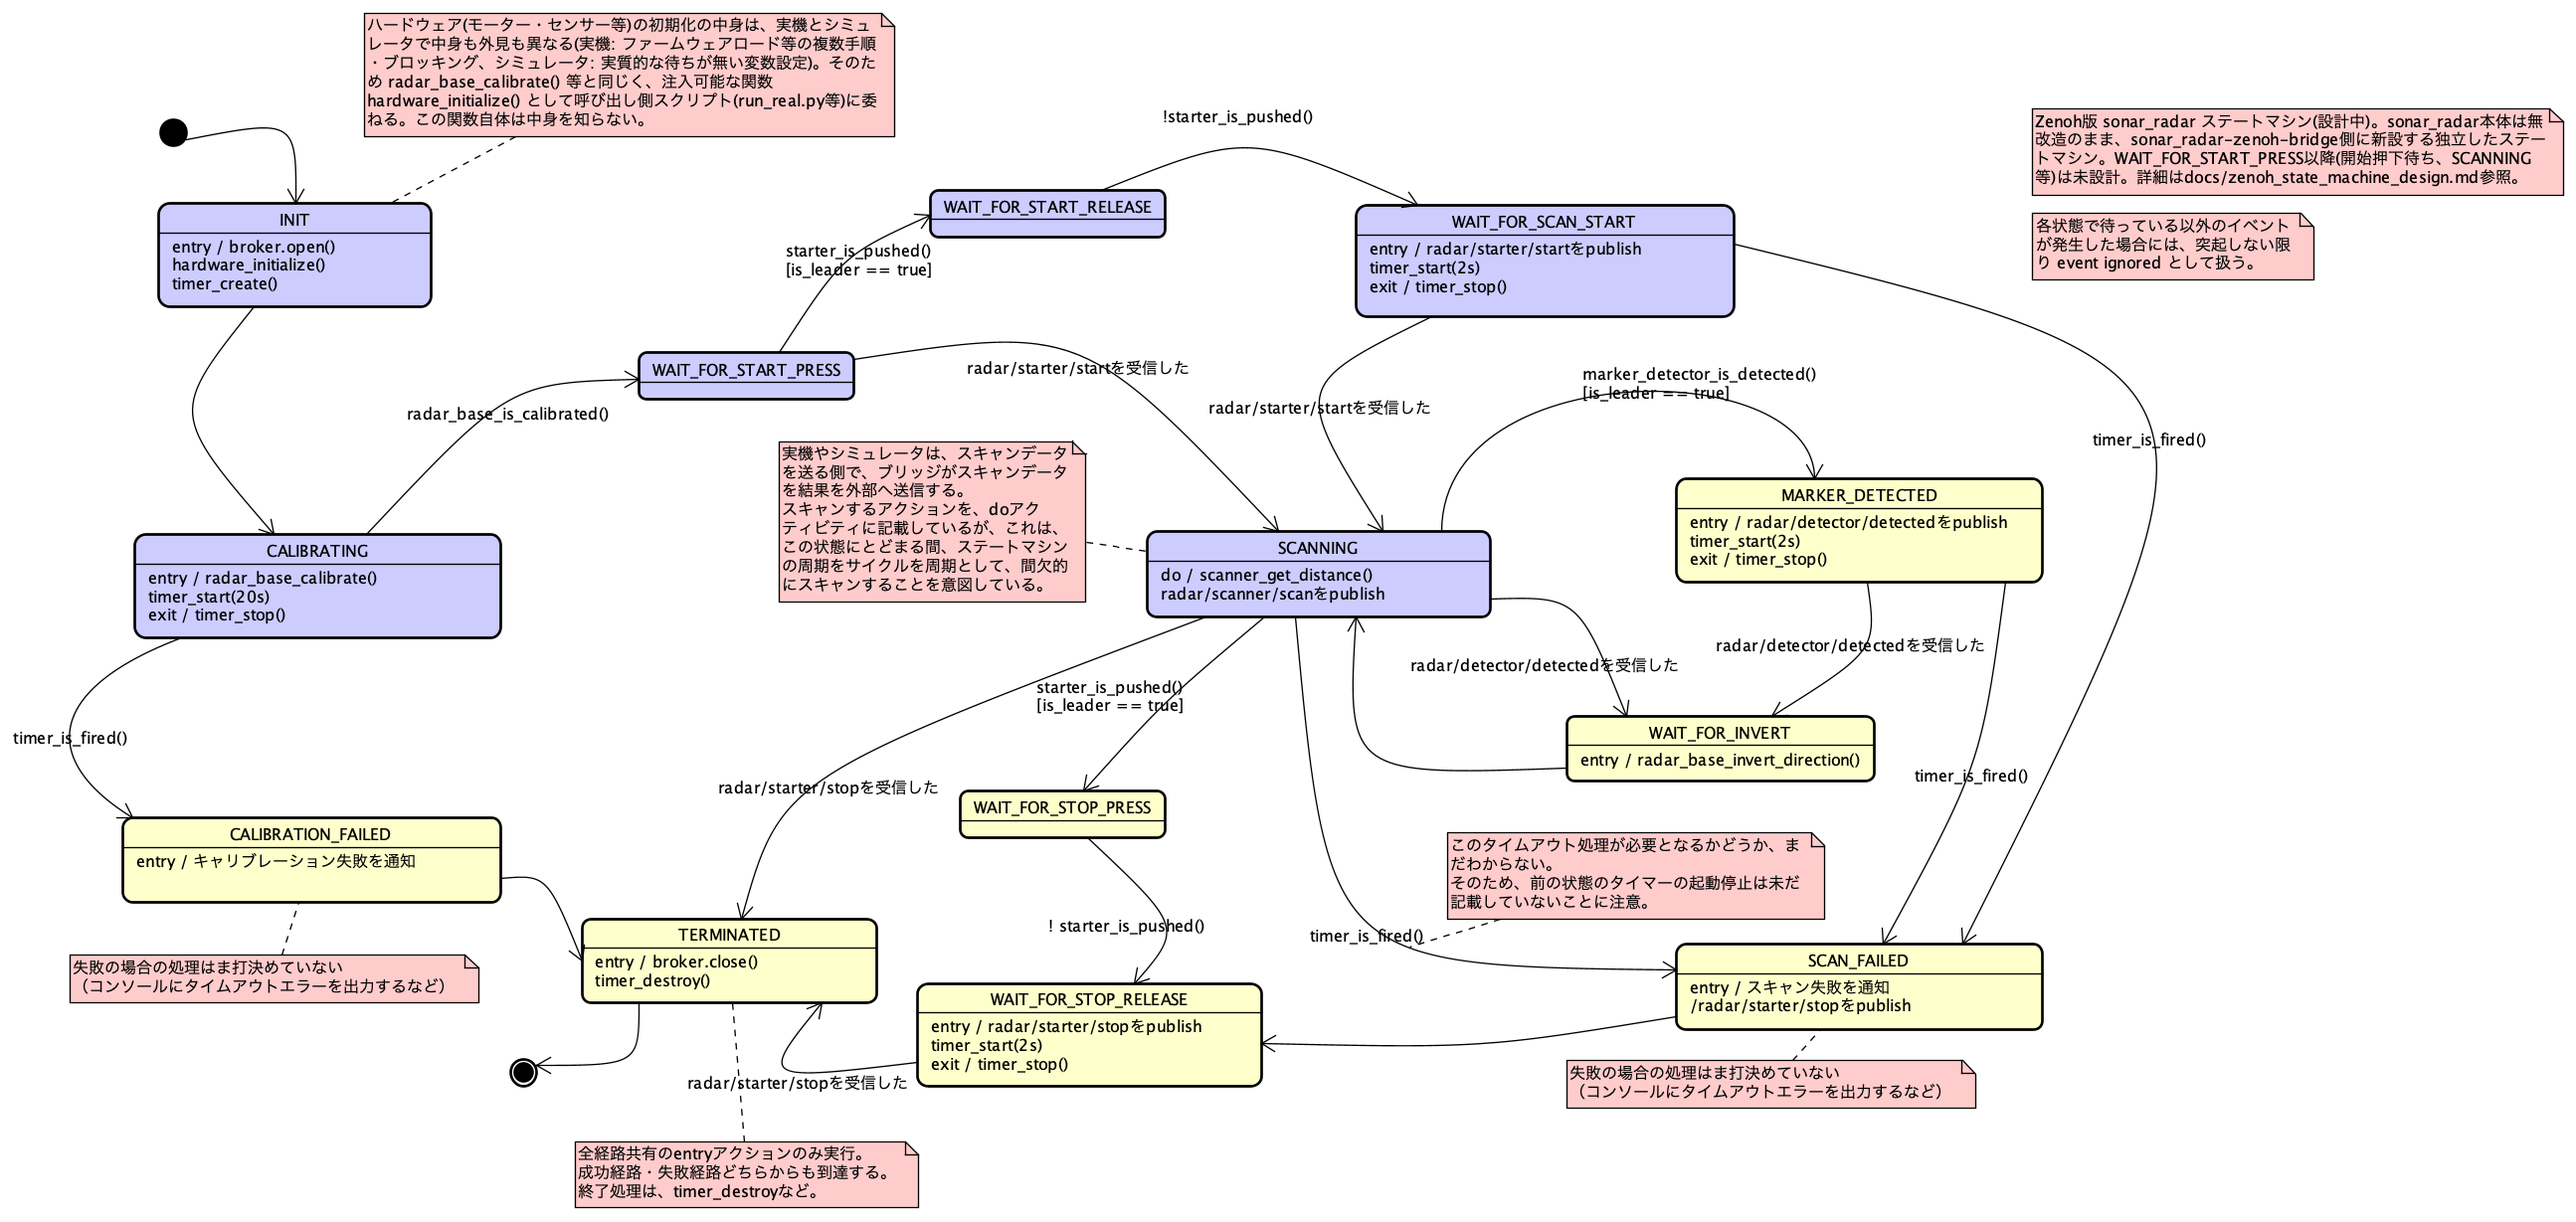
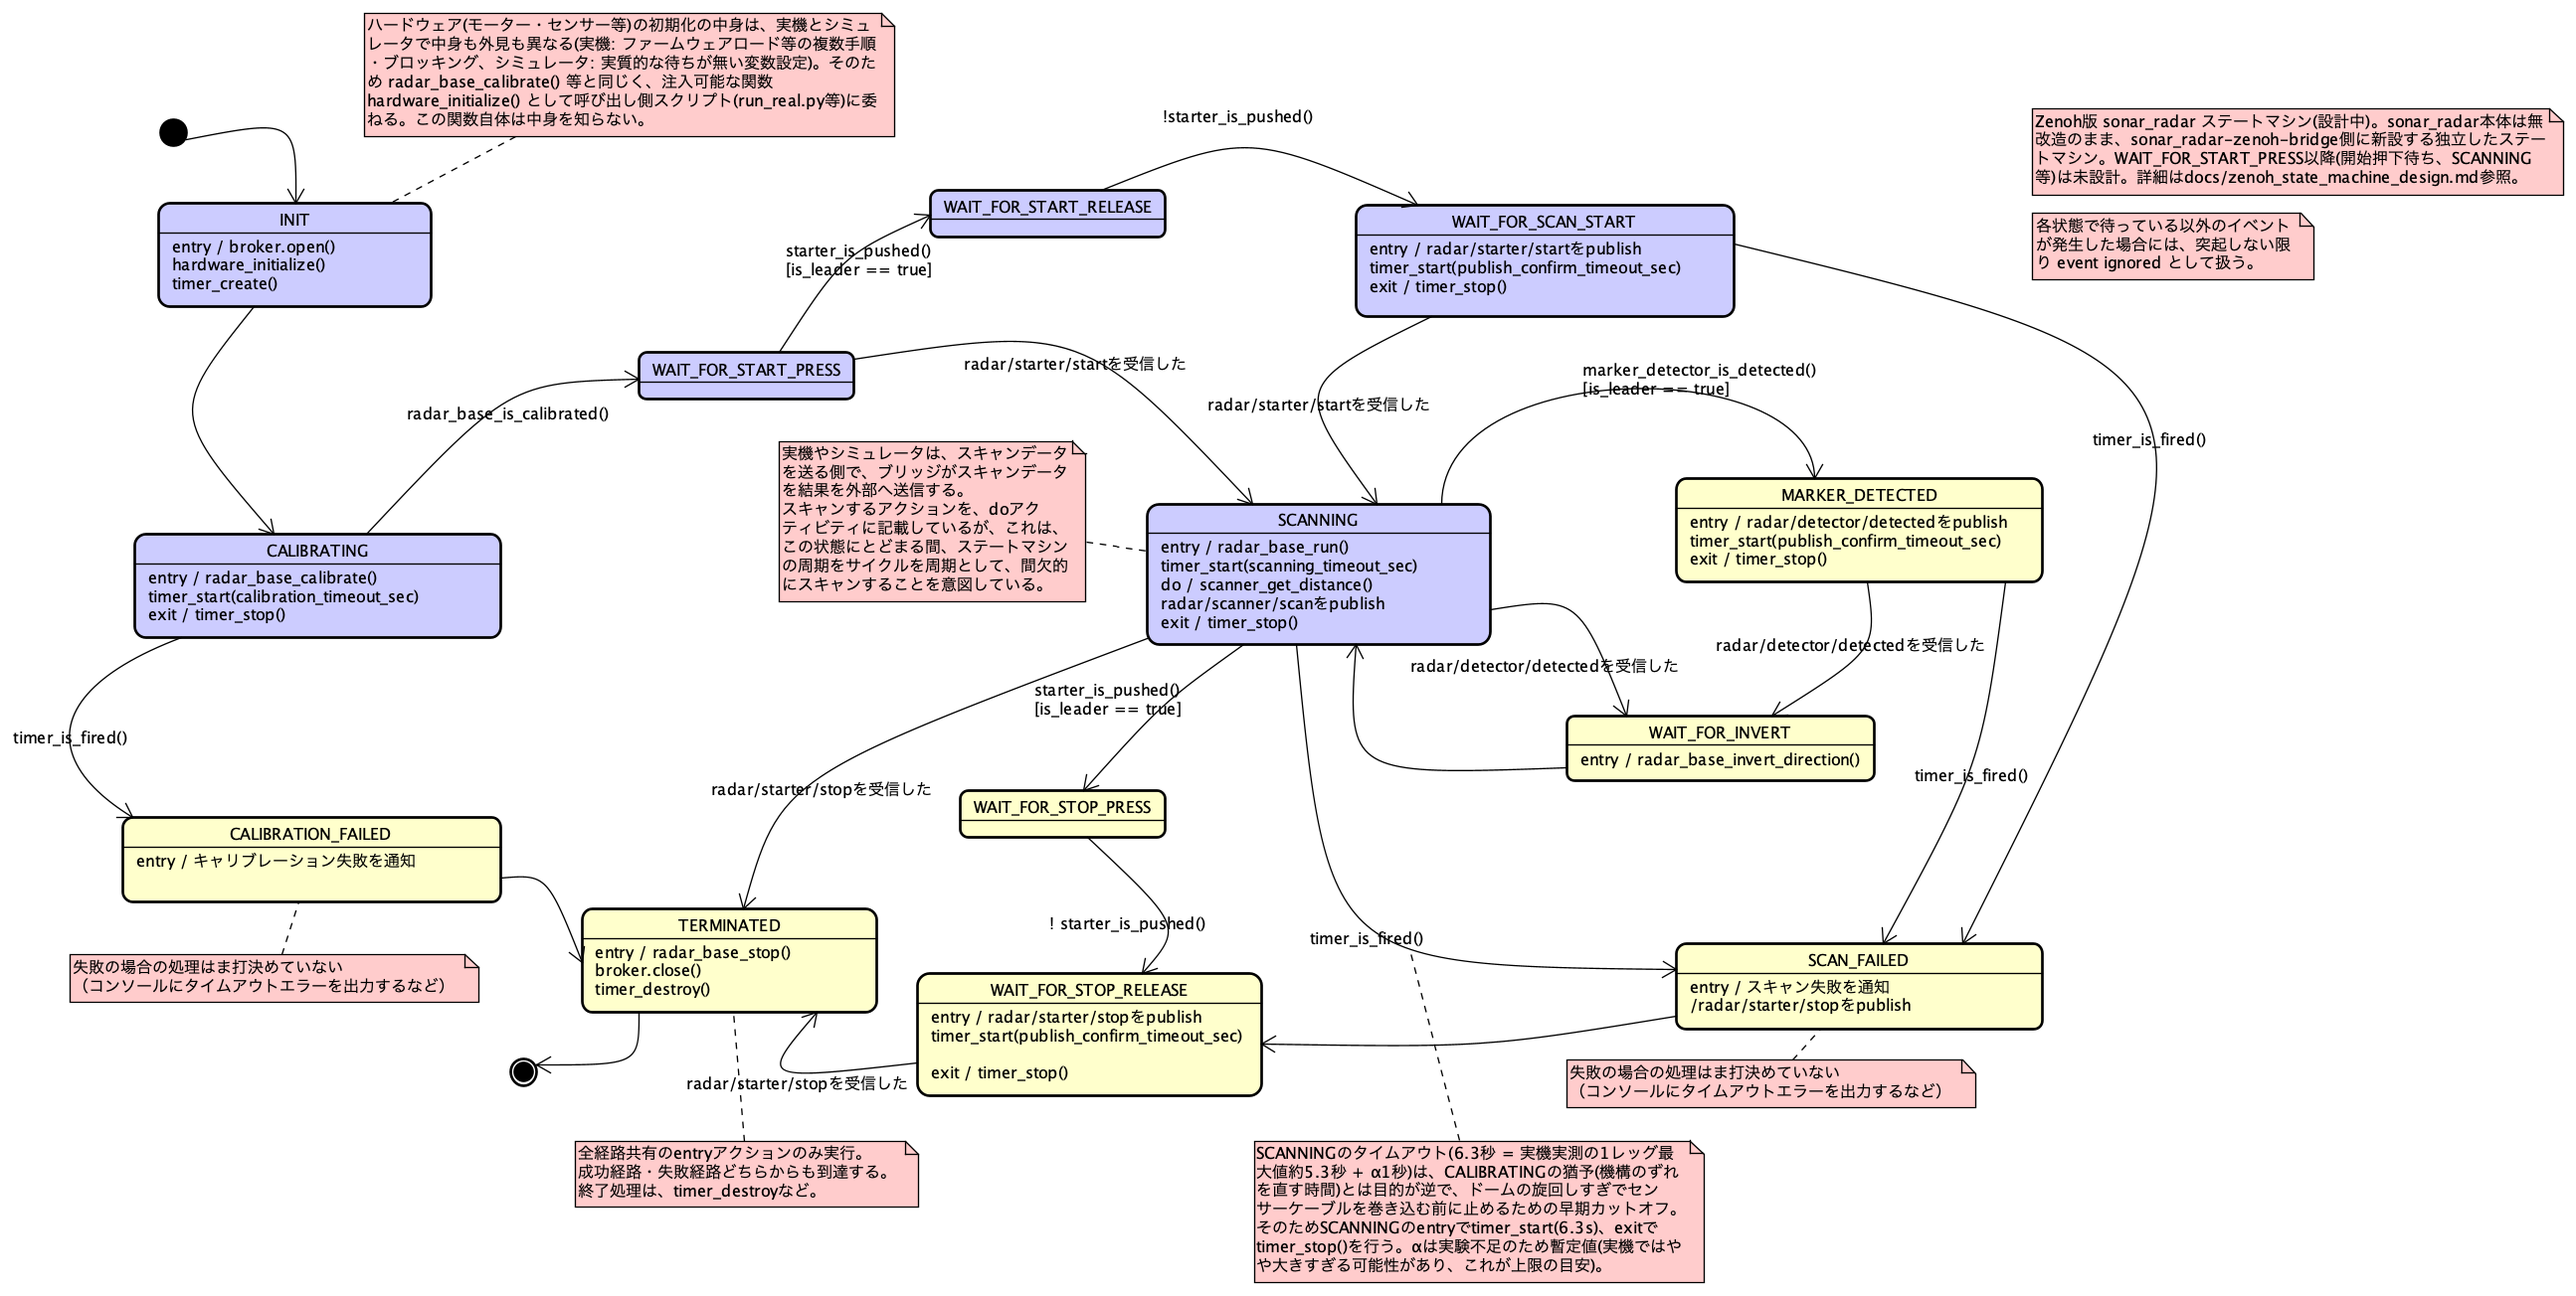
docs: READMEをマイルストーン5完了に同期、development_logの重複を整理、図を再エクスポート
README.mdの残作業チェックリストを更新: MARKER_DETECTED以降実装(#11)、
ハードウェア抽象層統一(#12)、radar_base継続旋回+marker_detector+
タイムアウト分離(#13)を完了項目として追記し、次の課題(raspi5ブリッジ、
pdu_ros_bridge)を#14/#15に整理。ステータス欄も現状に更新。

development_log.mdに同じ内容の「マイルストーン5」を重複追記していたため
削除し、既存のマイルストーン4(2つあった重複番号)をマイルストーン5に
振り直して整理した(コミット内容の実体はea56909と同じ)。

docs/export_diagrams.bash経由でdocs/diagrams/配下の図(クラス図・
ステートマシン図)を、タイムアウト属性追加後の最新の.astaから再エクスポート。

diff --git a/README.md b/README.md
@@ -283,7 +283,7 @@ python3 -c "from hakoniwa_pdu_endpoint import c_endpoint; print('import ok')"
 
 **設計継続（優先）**
 
-1. [`docs/zenoh_state_machine_design.md`](docs/zenoh_state_machine_design.md) の状態機械設計を継続（`WAIT_FOR_START_PRESS`/`WAIT_FOR_START_RELEASE`/`SCANNING`（到達まで）は実装・確認済み。`detected`の対称設計、`SCAN_FAILED`等、`MARKER_DETECTED`以降が未確定のまま残っている）
+1. [`docs/zenoh_state_machine_design.md`](docs/zenoh_state_machine_design.md) の状態機械設計を継続（`WAIT_FOR_START_PRESS`〜`SCAN_FAILED`まで含め全状態を実装・確認済み。`pdu_ros_bridge::sonar_radar_ros_bridge`、`CALIBRATION_FAILED`/`SCAN_FAILED`の失敗時処理の具体化などが未確定のまま残っている）
 
 **実装作業（状態機械図を1状態ずつ実装しながら進める方式、進行中。進め方と教訓は[`docs/development_log.md`](docs/development_log.md)を参照）**
 
@@ -296,10 +296,12 @@ python3 -c "from hakoniwa_pdu_endpoint import c_endpoint; print('import ok')"
 8. [x] `bridge/hako_radar_base.py`(`HakoRadarBase`)を新設し、MuJoCo(Hakoniwa plant、`sonar_radar_hako.py`を無改造で使用)経由でradar_baseを駆動できるようにした。`real_radar_base.py`と同じく、`motor_run_to_position()`がブロッキング実装のため、`motor_pwm()`/`motor_get_position()`による非ブロッキングのtickベース駆動にしている。
 9. [x] `run_calibration_smoke_test.py`/`run_start_smoke_test.py`とそれぞれのhako版(計4本)を`run_real.py`/`run_hako.py`(共通部分は`app_runner.py`)に統合。個別に育って機能追加漏れ(`--real-radar-base`)が起きた反省から、SonarRadarAppの構築・tickループ・state reportingを1箇所に集約した。あわせて`bridge/hako_starter.py`(`HakoStarter`)を新設し、`real_radar_base.py`/`real_starter.py`がBuild HATへの接続を共有する形に修正(`real_hat.py`)。実機(leader)とMac(follower、シミュレータ)の2台構成で、followerがstarter操作なしで`start`受信のみ`SCANNING`へ直接遷移することを確認済み。詳細は[`docs/development_log.md`](docs/development_log.md)を参照。
 10. [x] マシン間のキャリブレーション協調（`WAIT_FOR_CALIBRATE`/`WAIT_FOR_CALIBRATED`/`check_calibration_participants()`/`calibrate`・`calibrated`PDU）を廃止し、`INIT → CALIBRATING`（ローカルのみ、マシン間通信なし）→自動的に`WAIT_FOR_START_PRESS`という設計に再転回。`CALIBRATION_FAILED`はローカルなハードウェア障害検出用として存続(タイムアウト20秒)、`timer_stop()`は`CALIBRATING`のexitに一本化。状態機械図・クラス図・`docs/zenoh_state_machine_design.md`・`bridge/`のコード・`pdu/pdutypes.json`・zenoh設定を一通り追従させ、実機単体(動作シナリオ1)・実機+Mac(MuJoCoシム)の2台構成の両方で`CALIBRATING`から`SCANNING`までエラーなく到達することを実地確認済み。経緯は[`docs/zenoh_state_machine_design.md`](docs/zenoh_state_machine_design.md)「背景: キャリブレーション協調の廃止」、詳細は[`docs/development_log.md`](docs/development_log.md)を参照。
-11. 次のマイルストーン: `MARKER_DETECTED` 以降（`detected`対称処理、`WAIT_FOR_INVERT`、stop対称処理、`SCAN_FAILED`）を同様に1状態ずつ実装し、都度2台構成でも確認する
-12. `config/raspi5/`（`hakoniwa-pdu-ros` bridge用設定）の作成、ROSトピックとしてのモニタリング確認(ブリッジ役が実際に必要になった段階で着手)
-13. 実機/シムのハードウェア抽象層の統一。`libspikehat`/`libspikehat_sim`が`sonar_radar`本体向けに提供している「実機・シムで差し替え可能な共通インターフェース」と同様のものを、ブリッジ側の`hardware_initialize`/`radar_base_calibrate`/`radar_base_is_calibrated`/`starter_is_pushed`にも導入する(現状は`run_real.py`/`run_hako.py`でそれぞれ個別に配線している)。
+11. [x] `MARKER_DETECTED`/`WAIT_FOR_INVERT`/stop対称処理/`SCAN_FAILED`を実装。start/`WAIT_FOR_SCAN_START`と同じ「leaderはローカル検知→publishのみ、実アクションは自分のpublishのループバック受信で行う、followerは受信のみで直接遷移する」パターンをそのまま踏襲し、Astah図の全遷移に1:1で実装した。詳細は[`docs/development_log.md`](docs/development_log.md)を参照。
+12. [x] 実機/シムのハードウェア抽象層の統一。`libspikehat`/`libspikehat_sim`と同様の「実機・シムで差し替え可能な共通インターフェース」として`bridge/hardware.py`(`RadarHardware`/`RealHardware`/`HakoHardware`)を新設し、`run_real.py`/`run_hako.py`それぞれの個別配線をここに集約した。
+13. [x] `radar_base`の継続旋回(`run()`/`stop()`/`invert_direction()`)と`marker_detector`(`real_marker_detector.py`/`hako_marker_detector.py`)を実装。マイルストーン11の時点では状態機械のロジックのみでドームを物理的に回す配線が漏れていたことが実機確認で発覚し、追加実装した。実機単体・シム単体・実機+シム2台構成(leader/follower入れ替え含む)で、ドームが実際に旋回しマーカーで反転を繰り返すことを目視確認済み。あわせて、ブリッジ経由のオーバーヘッドを踏まえて`scanning_timeout_sec`の既定値を実機/シムで分離(`--scanning-timeout`、実機8秒/シム12秒)し、タイムアウト値をクラス属性として状態機械図から名前で参照する設計に統一した(`calibration_timeout_sec`/`scanning_timeout_sec`/`publish_confirm_timeout_sec`)。詳細は[`docs/development_log.md`](docs/development_log.md)「マイルストーン5」を参照。
+14. `config/raspi5/`（`hakoniwa-pdu-ros` bridge用設定）の作成、ROSトピックとしてのモニタリング確認(ブリッジ役が実際に必要になった段階で着手)
+15. `pdu_ros_bridge::sonar_radar_ros_bridge`の設計・実装、`CALIBRATION_FAILED`/`SCAN_FAILED`の失敗時処理の具体化
 
 ## ステータス
 
-`INIT → CALIBRATING → WAIT_FOR_START_PRESS → WAIT_FOR_START_RELEASE → WAIT_FOR_SCAN_START → SCANNING`（到達まで）を実装・実機/シム双方で実地確認済み。キャリブレーションはマシン間協調を行わないローカル処理に転回済み(#10)。次のマイルストーンは`MARKER_DETECTED`以降(#11)。PDU定義・zenoh設定・Mac/実機のpdu-endpoint環境構築（インフラ部分）は完了済み。旧`driver/sonar_radar_zenoh.py`（`sonar_radar`本体を直接importする転回前の実装）は使わない。
+状態機械図の全状態(`INIT`〜`TERMINATED`、`MARKER_DETECTED`/`WAIT_FOR_INVERT`/stop対称処理/`SCAN_FAILED`を含む)を実装し、実機単体・シム単体・実機+シムの2台構成(leader/follower双方向)で実地確認済み。キャリブレーションはマシン間協調を行わないローカル処理(#10)、ドームの継続旋回・マーカー検出による方向反転も実機で動作確認済み(#13)。次は`pdu_ros_bridge`の設計・実装(#15)。PDU定義・zenoh設定・Mac/実機のpdu-endpoint環境構築（インフラ部分）は完了済み。旧`driver/sonar_radar_zenoh.py`（`sonar_radar`本体を直接importする転回前の実装）は使わない。

diff --git a/docs/development_log.md b/docs/development_log.md
@@ -285,7 +285,7 @@ start/`WAIT_FOR_SCAN_START`で確立済みの「leaderはローカル検知→pu
 
 既存の3シナリオ(leaderフルサイクル/followerの直接遷移/`MARKER_DETECTED`タイムアウト)も、exitの`timer_stop()`追加後に再実行し、引き続き成功することを確認した。
 
-## マイルストーン4: radar_baseの継続旋回・marker_detector実装、ブリッジ経由タイムアウトの見直し(完了)
+## マイルストーン5: radar_baseの継続旋回・marker_detector実装、ブリッジ経由タイムアウトの見直し(完了)
 
 ### きっかけ: 「動かない」
 
